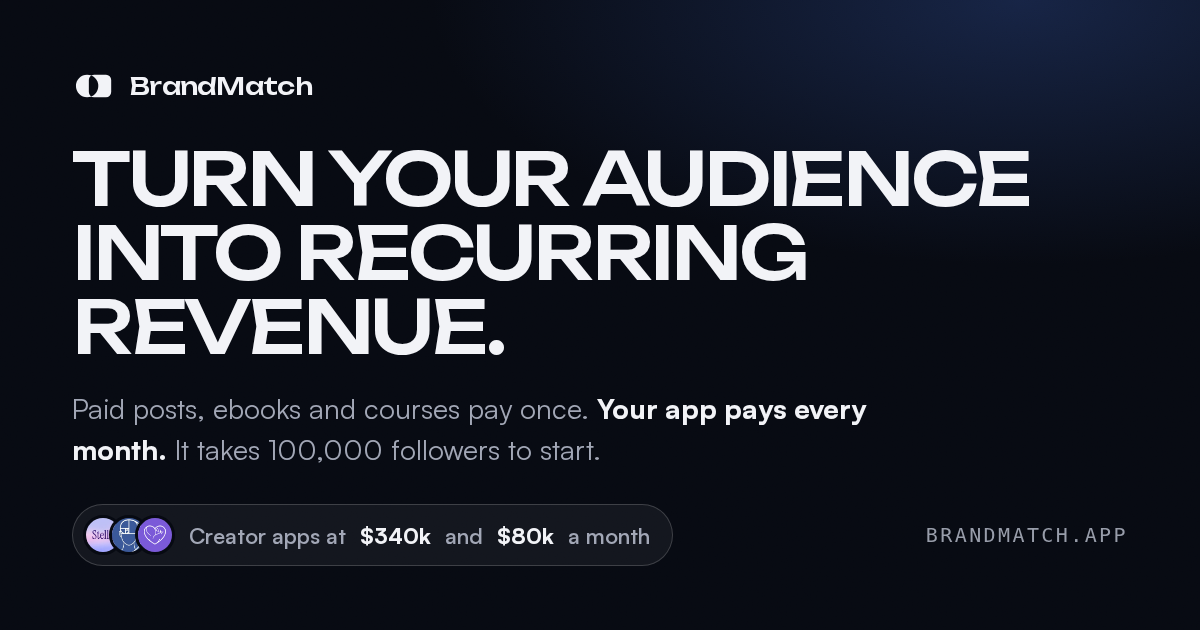
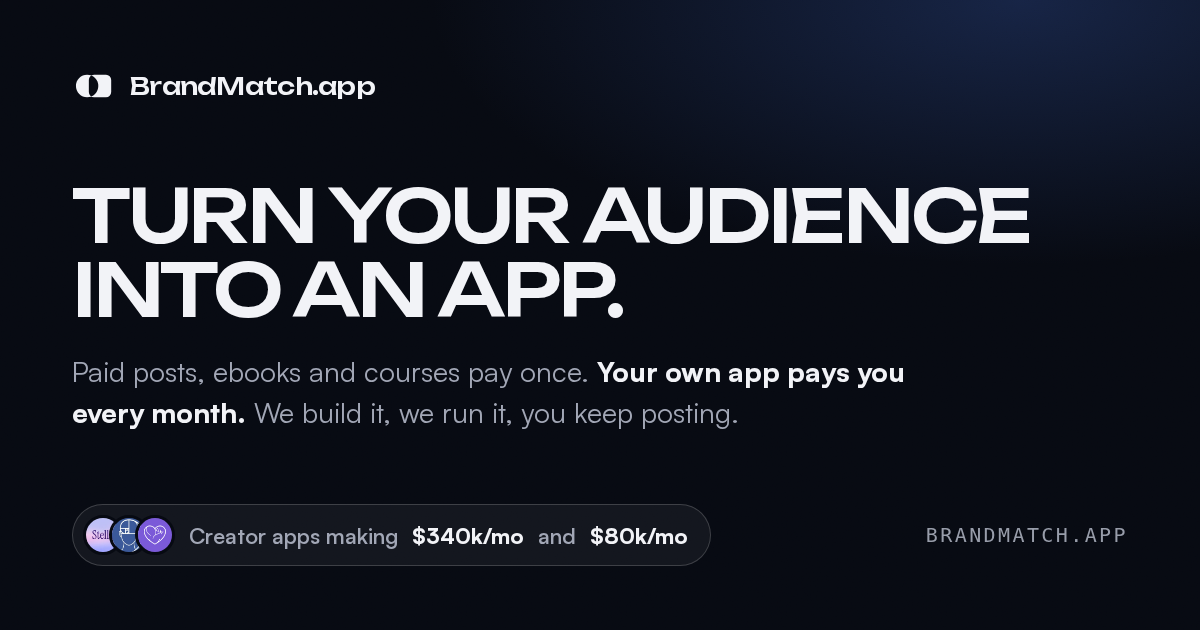
brand: the creator's read, applied
BrandMatch.app as the name; turn your audience into an app, the
subtitle says what we do; the trust line fits your brand and content;
one voice, we, with Jeremy and Maxime in the footer; the creators'
faces above the showcase, the frame wider and the scrub longer;
$340k/mo; 100k on one platform; built within a month; email opens a
dialog to copy the address or open the mail app, mailto underneath.

Claude-Session: https://claude.ai/code/session_01SXhfaDEewBuThDEvZSiB9T

Changed region(s): [[0.0617, 0.2413, 0.8633, 0.754], [0.2775, 0.8143, 0.5858, 0.8746], [0.2467, 0.1206, 0.3083, 0.1508]]

diff --git a/brand/index.html b/brand/index.html
@@ -3,22 +3,22 @@
 <head>
 <meta charset="utf-8">
 <meta name="viewport" content="width=device-width, initial-scale=1, viewport-fit=cover">
-<title>BrandMatch · Turn your audience into recurring revenue</title>
-<meta name="description" content="Paid posts, ebooks and courses pay once. Your app pays every month, and gives your audience a place they open every day. It takes 100,000 followers to start.">
+<title>BrandMatch.app · Turn your audience into an app</title>
+<meta name="description" content="Paid posts, ebooks and courses pay once. Your own app pays you every month. We build it, we run it, you keep posting.">
 <link rel="canonical" href="https://www.brandmatch.app/">
 <meta name="theme-color" content="#070a12">
 <link rel="icon" type="image/svg+xml" href="favicon.svg">
 <meta property="og:type" content="website">
 <meta property="og:site_name" content="BrandMatch">
 <meta property="og:url" content="https://www.brandmatch.app/">
-<meta property="og:title" content="Turn your audience into recurring revenue.">
-<meta property="og:description" content="Paid posts, ebooks and courses pay once. Your app pays every month. It takes 100,000 followers to start.">
-<meta property="og:image" content="https://www.brandmatch.app/media/og.png?v=1">
+<meta property="og:title" content="Turn your audience into an app.">
+<meta property="og:description" content="Paid posts, ebooks and courses pay once. Your own app pays you every month. We build it, we run it, you keep posting.">
+<meta property="og:image" content="https://www.brandmatch.app/media/og.png?v=2">
 <meta property="og:image:width" content="1200">
 <meta property="og:image:height" content="630">
 <meta property="og:image:alt" content="BrandMatch. Turn your audience into recurring revenue.">
 <meta name="twitter:card" content="summary_large_image">
-<meta name="twitter:image" content="https://www.brandmatch.app/media/og.png?v=1">
+<meta name="twitter:image" content="https://www.brandmatch.app/media/og.png?v=2">
 <meta name="twitter:site" content="@jeremylasne">
 
 <style>
@@ -229,11 +229,14 @@ h1, h2 { font-family: var(--display); font-weight: 500; letter-spacing: -0.04em;
 /* ── the portal: five greys open onto the app, or the video once it exists ─ */
 .pin { position: relative; }
 .pin-stage { position: relative; display: grid; place-items: center; padding: 90px 0 110px; }
-.pin.pinned { height: 165vh; }
+.pin.pinned { height: 190vh; }
 .pin.pinned .pin-stage { position: sticky; top: 0; height: 100svh; padding: 0; overflow: clip; }
-.pd { --p: 0; --g: clamp(14px, 1.7vw, 28px); position: relative; width: min(58vw, 860px); aspect-ratio: 1.82; }
+.pd { --p: 0; --g: clamp(14px, 1.7vw, 28px); position: relative; width: min(72vw, 1100px, calc((100svh - 250px) * 1.82)); aspect-ratio: 1.82; }
 @media (max-width: 760px) { .pd { width: min(74vw, 440px); --g: clamp(7px, 1.7vw, 10px); } }
 .pd-head { position: absolute; z-index: 12; left: 0; right: 0; bottom: 100%; margin-bottom: clamp(18px, 3vh, 34px); text-align: center; font-family: var(--display); font-weight: 500; font-size: clamp(1.3rem, 3.2vw, 2.6rem); letter-spacing: -0.04em; text-transform: uppercase; text-wrap: balance; pointer-events: none; opacity: clamp(0, calc((var(--p) - .72) * 5), 1); transform: translateY(calc(18px * (1 - clamp(0, calc((var(--p) - .72) * 5), 1)))); }
+.pd-faces { display: flex; justify-content: center; }
+.pd-faces img { width: clamp(46px, 5.2vw, 76px); aspect-ratio: 1; border-radius: 50%; object-fit: cover; border: 3px solid #f4f5f8; box-shadow: 0 12px 30px -14px rgba(0,0,0,.55); margin-left: -12px; background: #d3d6dc; }
+.pd-faces img:first-child { margin-left: 0; }
 .pd-cta { position: absolute; z-index: 20; left: 0; right: 0; top: 100%; margin-top: clamp(20px, 3vh, 36px); display: flex; justify-content: center; pointer-events: none; opacity: clamp(0, calc((var(--p) - .78) * 5), 1); transform: translateY(calc(-14px * (1 - clamp(0, calc((var(--p) - .78) * 5), 1)))); }
 .pd.pd-open .pd-cta { pointer-events: auto; }
 .pd-ring { position: absolute; border-radius: 9999px; transform-origin: 50% 50%; will-change: transform, opacity; opacity: clamp(0, calc(1.28 - var(--p) * 1.85), 1); pointer-events: none; box-shadow: 0 50px 120px -60px rgba(0,0,0,.4); }
@@ -339,9 +342,18 @@ h1, h2 { font-family: var(--display); font-weight: 500; letter-spacing: -0.04em;
 .fn-box .chip { background: rgba(255,255,255,.06); border-color: rgba(255,255,255,.16); color: #f2f3f7; box-shadow: none; }
 .fn-box .btn { background: #f2f3f7; color: #0d1017; }
 .fn-box .btn--ghost { background: rgba(255,255,255,.06); color: #f2f3f7; border-color: rgba(255,255,255,.18); }
-.copy-inline { margin-top: 2px; padding: 4px 2px; font-size: 13.5px; font-weight: 600; color: #989daa; text-decoration: underline; text-underline-offset: 3px; text-decoration-color: rgba(255,255,255,.18); transition: color .3s; }
-.copy-inline:hover { color: #f2f3f7; }
 /* the confirmation arrives on its own transition: starting-style, zero timers in CSS */
+.mail-dialog { position: fixed; inset: 0; margin: auto; width: min(92vw, 520px); padding: clamp(32px, 5vw, 48px) clamp(22px, 4vw, 40px) clamp(28px, 4vw, 40px); border: 0; border-radius: 28px; background: #070a12; color: #f2f3f7; text-align: center; box-shadow: 0 40px 100px -30px rgba(0,0,0,.7); opacity: 0; translate: 0 12px; transition: opacity .25s var(--ease), translate .25s var(--ease), display .25s allow-discrete, overlay .25s allow-discrete; }
+.mail-dialog[open] { opacity: 1; translate: 0 0; }
+@starting-style { .mail-dialog[open] { opacity: 0; translate: 0 12px; } }
+.mail-dialog::backdrop { background: rgba(7,10,18,.55); backdrop-filter: blur(6px); }
+.mail-dialog .eyebrow { color: #989daa; }
+.mail-addr { margin: 12px 0 22px; font-family: var(--display); font-weight: 500; font-size: clamp(1.05rem, 3.2vw, 1.5rem); letter-spacing: -0.03em; overflow-wrap: anywhere; }
+.mail-dialog .btn { background: #f2f3f7; color: #0d1017; }
+.mail-dialog .btn--ghost { background: rgba(255,255,255,.06); color: #f2f3f7; border-color: rgba(255,255,255,.18); }
+.mail-close { position: absolute; top: 12px; right: 12px; width: 40px; height: 40px; border-radius: 50%; border: 1px solid rgba(255,255,255,.18); background: transparent; color: #f2f3f7; font-size: 22px; line-height: 1; cursor: pointer; }
+.mail-close:hover { background: rgba(255,255,255,.08); }
+.mail-note { min-height: 22px; margin: 14px 0 0; }
 .copied { display: none; opacity: 0; translate: 0 -6px; margin-left: 10px; font-size: 13.5px; font-weight: 700; color: #f2f3f7; transition: display .2s allow-discrete, opacity .2s var(--ease-soft), translate .2s var(--ease-soft); }
 .copied[data-open] { display: inline-block; opacity: 1; translate: 0 0; }
 @starting-style { .copied[data-open] { opacity: 0; translate: 0 -6px; } }
@@ -455,7 +467,7 @@ h1, h2 { font-family: var(--display); font-weight: 500; letter-spacing: -0.04em;
 /* the receipts, behind the rings */
 .pd-rc { position: absolute; inset: 0; z-index: 2; display: grid; grid-template-columns: repeat(3, 1fr); align-items: center; gap: 2%; padding: 5% 6%; color: #fff; opacity: clamp(0, calc(var(--p) * 2.8 - .5), 1); }
 .pd-rc > div { text-align: center; }
-.pd-rc img { width: clamp(44px, 6.4vw, 88px); height: auto; border-radius: 22%; margin: 0 auto 12px; box-shadow: 0 12px 30px -12px rgba(0,0,0,.7); }
+.pd-rc img { width: clamp(44px, 7.4vw, 104px); height: auto; border-radius: 22%; margin: 0 auto 12px; box-shadow: 0 12px 30px -12px rgba(0,0,0,.7); }
 .pd-rc .n { font-size: clamp(1.3rem, 4vw, 3.4rem); font-weight: 800; letter-spacing: -0.05em; line-height: 1; font-variant-numeric: tabular-nums; }
 .pd-rc .n small { font-size: .38em; font-weight: 700; letter-spacing: 0; color: #a2a7b6; }
 .pd-rc .k { margin-top: 8px; font-size: clamp(10px, 1.1vw, 14px); color: #a2a7b6; line-height: 1.35; }
@@ -495,12 +507,12 @@ h1, h2 { font-family: var(--display); font-weight: 500; letter-spacing: -0.04em;
   <div class="shell">
     <a class="brand" href="#top" aria-label="BrandMatch, back to top">
       <svg class="brand-mark" aria-hidden="true"><use href="#bm-mark"/></svg>
-      <span class="brand-name">BrandMatch</span>
+      <span class="brand-name">BrandMatch.app</span>
     </a>
     <div class="nav-links">
       <a href="#how">How it works</a>
       <a href="#final">Who it&rsquo;s for</a>
-      <a href="https://mail.google.com/mail/?view=cm&amp;fs=1&amp;to=hey@jeremylasne.com&amp;su=An%20app%20for%20my%20audience&amp;body=What%20I%20make%3A%0A%0AAudience%20size%20and%20platform%3A%0A%0AWhat%20my%20people%20keep%20asking%20me%20for%3A%0A%0A" target="_blank" rel="noopener">Email</a>
+      <a href="mailto:hey@jeremylasne.com?subject=An%20app%20for%20my%20audience&amp;body=What%20I%20make%3A%0A%0AAudience%20size%20and%20platform%3A%0A%0AWhat%20my%20people%20keep%20asking%20me%20for%3A%0A%0A" data-mail target="_blank" rel="noopener">Email</a>
     </div>
     <div class="nav-right">
       <a class="btn" href="https://cal.com/jeremy-lasne/app-partnership-call?overlayCalendar=true" target="_blank" rel="noopener">Book a call <span class="arr">&rarr;</span></a>
@@ -511,14 +523,14 @@ h1, h2 { font-family: var(--display); font-weight: 500; letter-spacing: -0.04em;
 </nav>
 
 <div class="nav-menu" id="menu" aria-hidden="true">
-  <div class="nav-menu-top"><span>BrandMatch</span><button class="nav-close" id="menu-close" aria-label="Close menu">&times;</button></div>
+  <div class="nav-menu-top"><span>BrandMatch.app</span><button class="nav-close" id="menu-close" aria-label="Close menu">&times;</button></div>
   <div class="nav-menu-links">
     <a href="#how" style="--i:0"><i>01</i>How it works</a>
     <a href="#final" style="--i:1"><i>02</i>Who it&rsquo;s for</a>
   </div>
   <div class="nav-menu-cta">
     <a class="btn" href="https://cal.com/jeremy-lasne/app-partnership-call?overlayCalendar=true" target="_blank" rel="noopener">Book a call <span class="arr">&rarr;</span></a>
-    <a class="btn btn--ghost" href="https://mail.google.com/mail/?view=cm&amp;fs=1&amp;to=hey@jeremylasne.com&amp;su=An%20app%20for%20my%20audience" target="_blank" rel="noopener">hey@jeremylasne.com</a>
+    <a class="btn btn--ghost" href="mailto:hey@jeremylasne.com?subject=An%20app%20for%20my%20audience&amp;body=What%20I%20make%3A%0A%0AAudience%20size%20and%20platform%3A%0A%0AWhat%20my%20people%20keep%20asking%20me%20for%3A%0A%0A" data-mail target="_blank" rel="noopener">hey@jeremylasne.com</a>
   </div>
 </div>
 
@@ -531,20 +543,20 @@ h1, h2 { font-family: var(--display); font-weight: 500; letter-spacing: -0.04em;
     <div class="hero-copy" id="hero-copy">
       <div class="proof-pill hero-in" style="--d:80ms">
         <span class="stk" aria-hidden="true"><img src="media/stella.webp" alt=""><img src="media/faceharmony.webp" alt=""><img src="media/thepanash.webp" alt=""></span>
-        <span>Creator apps at <b>$340k</b> and <b>$80k</b> a month</span>
+        <span>Creator apps making <b>$340k/mo</b> and <b>$80k/mo</b></span>
       </div>
       <h1 class="h-display hero-in" style="--d:160ms">
         <span class="ln">Turn your audience</span>
-        <span class="ln">into recurring revenue.</span>
+        <span class="ln">into an app.</span>
       </h1>
-      <p class="sub hero-in" style="--d:360ms">Paid posts, ebooks and courses pay once. <b>Your app pays every month</b>, and gives your audience a place they open every day. It takes <b>100,000 followers</b> to start.</p>
+      <p class="sub hero-in" style="--d:360ms">Paid posts, ebooks and courses pay once. <b>Your own app pays you every month.</b> We build it, we run it, you keep posting.</p>
       <div class="btn-row hero-in" style="--d:520ms">
         <a class="btn" href="https://cal.com/jeremy-lasne/app-partnership-call?overlayCalendar=true" target="_blank" rel="noopener">Book a call <span class="arr">&rarr;</span></a>
         <a class="btn btn--ghost" href="#how"><span class="btn-play"><svg viewBox="0 0 10 10" aria-hidden="true"><path d="M2 1.5v7l6-3.5z"/></svg></span>See how it works</a>
       </div>
     </div>
 
-    <p class="hero-trust" id="hero-trust"><span class="hero-in" style="--d:700ms"><b>Your own app</b> <i>&middot;</i> <b>Costs you nothing</b> <i>&middot;</i> <b>You keep posting</b></span></p>
+    <p class="hero-trust" id="hero-trust"><span class="hero-in" style="--d:700ms"><b>Your own app</b> <i>&middot;</i> <b>Costs you nothing</b> <i>&middot;</i> <b>Fits your brand and content</b></span></p>
   </div>
 </section>
 
@@ -559,7 +571,7 @@ h1, h2 { font-family: var(--display); font-weight: 500; letter-spacing: -0.04em;
     <a href="https://play.google.com/store/apps/details?id=com.thepanash.app&amp;hl=en" target="_blank" rel="noopener"><img src="media/thepanash.webp" alt="" width="36" height="36">ThePanash</a>
     <a href="https://kaught.app" target="_blank" rel="noopener"><img src="media/kaught.webp" alt="" width="36" height="36">Kaught</a>
   </div>
-  <p class="tb-note">Their numbers, publicly posted, every app linked so you can check. Kaught is mine, the latest build.</p>
+  <p class="tb-note">Their numbers, publicly posted, every app linked so you can check. Kaught is ours, the latest build.</p>
 </section>
 
 <!-- ── the portal: five greys open onto the receipts. A video takes the
@@ -568,7 +580,7 @@ h1, h2 { font-family: var(--display); font-weight: 500; letter-spacing: -0.04em;
   <div class="pin" id="portal">
     <div class="pin-stage">
       <div class="pd" id="pd">
-        <p class="pd-head">Creators who did it.</p>
+        <div class="pd-head pd-faces" role="img" aria-label="The creators behind Stella, Face Harmony and ThePanash"><img src="media/creators/hhpriestess.webp" alt=""><img src="media/creators/clavicular0.webp" alt=""><img src="media/creators/thepanash.webp" alt=""></div>
         <span class="pd-ring pd-r5"></span><span class="pd-ring pd-r4"></span><span class="pd-ring pd-r3"></span><span class="pd-ring pd-r2"></span><span class="pd-ring pd-r1"></span>
         <div class="pd-core" id="pd-core">
           <div class="pd-title">Your audience&rsquo;s app.</div>
@@ -600,10 +612,10 @@ h1, h2 { font-family: var(--display); font-weight: 500; letter-spacing: -0.04em;
         <div class="cv-txt">
           <div class="cv-no">01</div>
           <h3 class="cv-tt">You have 100k followers, niche and active</h3>
-          <div class="cv-li">Any platform. The narrower the niche, the better.</div>
+          <div class="cv-li">On one platform. The narrower the niche, the better.</div>
         </div>
         <div class="cv-fig"><div class="fig asset">
-          <div class="r"><span>Followers</span><b>100k minimum</b></div>
+          <div class="r"><span>Followers</span><b>100k on one platform</b></div>
           <div class="r"><span>Niche</span><b>Fly fishing beats fishing</b></div>
           <div class="r"><span>Active</span><b>Comments and DMs every day</b></div>
         </div></div>
@@ -627,7 +639,7 @@ h1, h2 { font-family: var(--display); font-weight: 500; letter-spacing: -0.04em;
       <div class="cv-row reveal-up">
         <div class="cv-txt">
           <div class="cv-no">03</div>
-          <h3 class="cv-tt">We build the app</h3>
+          <h3 class="cv-tt">We build the app within a month</h3>
           <div class="cv-li">Your name, your look, both stores. On us.</div>
         </div>
         <div class="cv-fig"><div class="fig fig--phone">
@@ -680,7 +692,7 @@ h1, h2 { font-family: var(--display); font-weight: 500; letter-spacing: -0.04em;
       <div class="ac-col"><div class="ac-track" id="ac-l"></div></div>
       <div class="ac-mid">
         <svg class="brand-mark" aria-hidden="true"><use href="#bm-mark"/></svg>
-        <h2 class="h-section">A post pays once. An app pays every month.</h2>
+        <h2 class="h-section">A post pays once. An app pays you every month.</h2>
         <a class="btn" href="https://cal.com/jeremy-lasne/app-partnership-call?overlayCalendar=true" target="_blank" rel="noopener">Book a call <span class="arr">&rarr;</span></a>
       </div>
       <div class="ac-col"><div class="ac-track" id="ac-r"></div></div>
@@ -702,9 +714,8 @@ h1, h2 { font-family: var(--display); font-weight: 500; letter-spacing: -0.04em;
     </div>
     <div class="btn-row">
       <a class="btn" href="https://cal.com/jeremy-lasne/app-partnership-call?overlayCalendar=true" target="_blank" rel="noopener">Book a call <span class="arr">&rarr;</span></a>
-      <a class="btn btn--ghost" href="https://mail.google.com/mail/?view=cm&amp;fs=1&amp;to=hey@jeremylasne.com&amp;su=An%20app%20for%20my%20audience&amp;body=What%20I%20make%3A%0A%0AAudience%20size%20and%20platform%3A%0A%0AWhat%20my%20people%20keep%20asking%20me%20for%3A%0A%0A" target="_blank" rel="noopener">hey@jeremylasne.com</a>
+      <a class="btn btn--ghost" href="mailto:hey@jeremylasne.com?subject=An%20app%20for%20my%20audience&amp;body=What%20I%20make%3A%0A%0AAudience%20size%20and%20platform%3A%0A%0AWhat%20my%20people%20keep%20asking%20me%20for%3A%0A%0A" data-mail target="_blank" rel="noopener">hey@jeremylasne.com</a>
     </div>
-    <p><button class="copy-inline" type="button" id="copy-email" data-email="hey@jeremylasne.com">Copy the address</button><span class="copied" id="copied" role="status" aria-live="polite">Copied</span></p>
   </div>
 </section>
 
@@ -712,12 +723,23 @@ h1, h2 { font-family: var(--display); font-weight: 500; letter-spacing: -0.04em;
 
 <footer class="foot">
   <div class="shell">
-    <span class="copy">&copy; 2026 BrandMatch &middot; by <a href="https://www.jeremylasne.com/">Jeremy Lasne</a></span>
+    <span class="copy">&copy; 2026 BrandMatch.app &middot; <a href="https://www.jeremylasne.com/">Jeremy Lasne</a> and <a href="https://maximehouel.com/" target="_blank" rel="noopener">Maxime Houel</a></span>
     <div class="foot-links">
       <a href="https://cal.com/jeremy-lasne/app-partnership-call?overlayCalendar=true" target="_blank" rel="noopener">Book a call</a>
     </div>
   </div>
 </footer>
+
+<dialog class="mail-dialog" id="mail-dialog" aria-labelledby="mail-title">
+  <form method="dialog"><button class="mail-close" aria-label="Close">&times;</button></form>
+  <span class="eyebrow" id="mail-title">Write to us</span>
+  <p class="mail-addr">hey@jeremylasne.com</p>
+  <div class="btn-row">
+    <button class="btn" type="button" id="copy-email" data-email="hey@jeremylasne.com">Copy the address <span class="arr">&rarr;</span></button>
+    <a class="btn btn--ghost" href="mailto:hey@jeremylasne.com?subject=An%20app%20for%20my%20audience&amp;body=What%20I%20make%3A%0A%0AAudience%20size%20and%20platform%3A%0A%0AWhat%20my%20people%20keep%20asking%20me%20for%3A%0A%0A">Open your mail app</a>
+  </div>
+  <p class="mail-note"><span class="copied" id="copied" role="status" aria-live="polite">Copied</span></p>
+</dialog>
 
 </div>
 
@@ -900,7 +922,7 @@ h1, h2 { font-family: var(--display); font-weight: 500; letter-spacing: -0.04em;
       ['$340k', '/mo', '2 months after launch', 'Stella &middot; Manifest Anything', '@hhpriestess', 'media/stella.webp', 'https://apps.apple.com/us/app/stella-manifest-anything/id6757347283', 'See it on the App Store'],
       ['$80k', '/mo', '1 month after launch', 'Face Harmony by Clavicular', '@Clavicular0', 'media/faceharmony.webp', 'https://apps.apple.com/us/app/face-harmony-by-clavicular/id6781068829', 'See it on the App Store'],
       ['262K', ' followers', 'Just launched, &euro;39.99/mo', 'ThePanash &middot; Powerlifting', '@thepanash', 'media/thepanash.webp', 'https://play.google.com/store/apps/details?id=com.thepanash.app&hl=en', 'See it on Google Play'],
-      ['Live', '', 'On the App Store', 'Kaught &middot; wildlife ID', 'My latest build', 'media/kaught.webp', 'https://kaught.app', 'kaught.app']
+      ['Live', '', 'On the App Store', 'Kaught &middot; wildlife ID', 'Our latest build', 'media/kaught.webp', 'https://kaught.app', 'kaught.app']
     ];
     function card(a) {
       return '<a class="tb-card" href="' + a[6] + '" target="_blank" rel="noopener" draggable="false"><img src="' + a[5] + '" alt="" width="48" height="48" loading="lazy" decoding="async" draggable="false"><span class="n">' + a[0] + '<small>' + a[1] + '</small></span><span class="w">' + a[2] + '</span><span class="cn">' + a[3] + '</span><span class="cc">' + a[4] + '</span><span class="go">' + a[7] + ' &rarr;</span></a>';
@@ -1005,12 +1027,16 @@ h1, h2 { font-family: var(--display); font-weight: 500; letter-spacing: -0.04em;
 
   (function () {
     var btn = document.getElementById('copy-email'), badge = document.getElementById('copied'); if (!btn || !badge) return;
+    var dlg = document.getElementById('mail-dialog'), menu = document.getElementById('menu'), burger = document.getElementById('burger');
+    if (dlg && dlg.showModal) document.querySelectorAll('[data-mail]').forEach(function (el) {
+      el.addEventListener('click', function (e) { e.preventDefault(); if (menu && menu.classList.contains('open') && burger) burger.click(); dlg.showModal(); });
+    });
     var t;
     function done() { badge.setAttribute('data-open', ''); clearTimeout(t); t = setTimeout(function () { badge.removeAttribute('data-open'); }, 2000); }
     btn.addEventListener('click', function () {
       var email = btn.getAttribute('data-email');
-      if (navigator.clipboard && navigator.clipboard.writeText) navigator.clipboard.writeText(email).then(done, function () { window.prompt('Copy my email:', email); });
-      else window.prompt('Copy my email:', email);
+      if (navigator.clipboard && navigator.clipboard.writeText) navigator.clipboard.writeText(email).then(done, function () { window.prompt('Copy the address:', email); });
+      else window.prompt('Copy the address:', email);
     });
   })();
 
